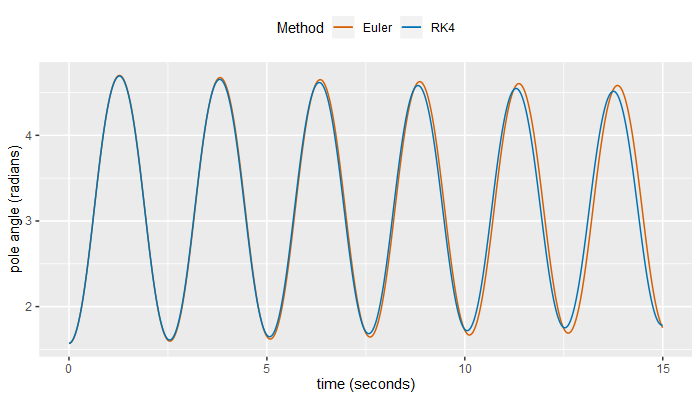
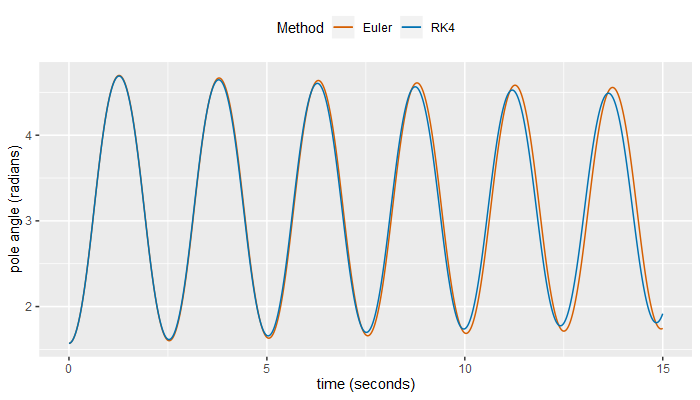
Minor change to the cart-pole paper: The mass of the cart has been reduced from 10kg to 1kg for the simulations used to produce the pole angle vs. time plots; this is in keeping with the cart mass of 1kg used throughout the literature. The overall effect in these plots is minimal - this is not a qua

diff --git a/public/research/cart-pole/cart-pole-equations.html b/public/research/cart-pole/cart-pole-equations.html
@@ -1471,7 +1471,7 @@
         <span><b>Table 4: Model parameters for the numerical integration experiments</b></span>
         <br/>
         <table class="notationTable">
-            <tr><td>Cart mass ($m_c$)&nbsp;</td><td>10 kg</td></tr>
+            <tr><td>Cart mass ($m_c$)&nbsp;</td><td>1 kg</td></tr>
             <tr><td>Pole mass ($m$)&nbsp;</td><td>0.1 kg</td></tr>
             <tr><td>Pole length&nbsp;</td><td>1 metre</td></tr>
             <tr><td>Initial pole angle ($\theta$)&nbsp;</td><td>90° (i.e. pointing horizontally to the right)</td></tr>
